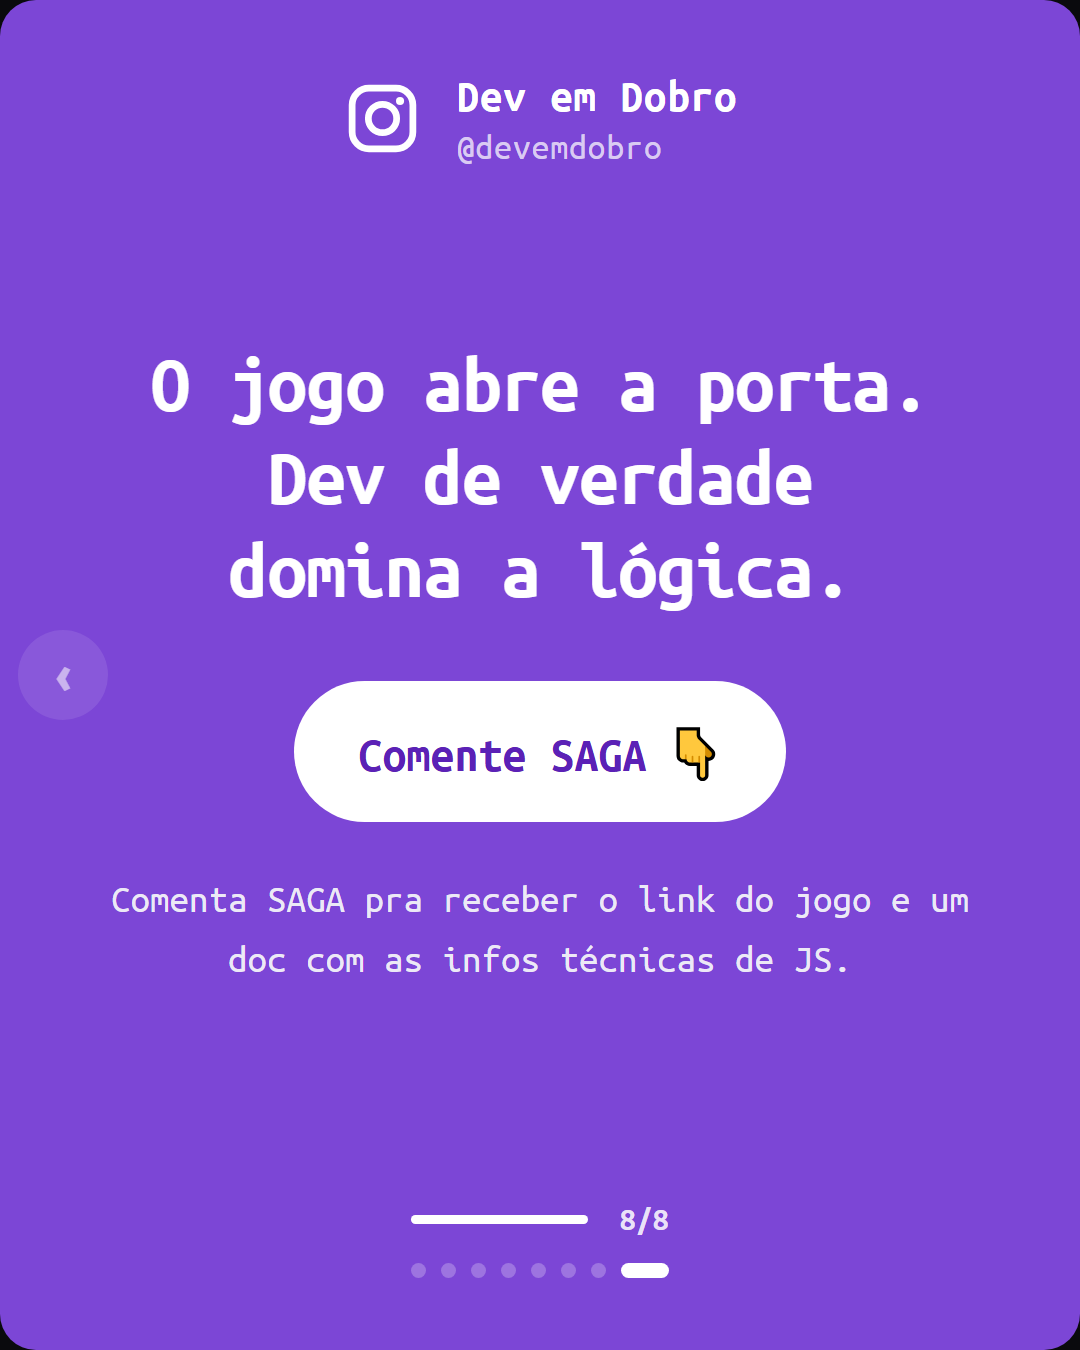
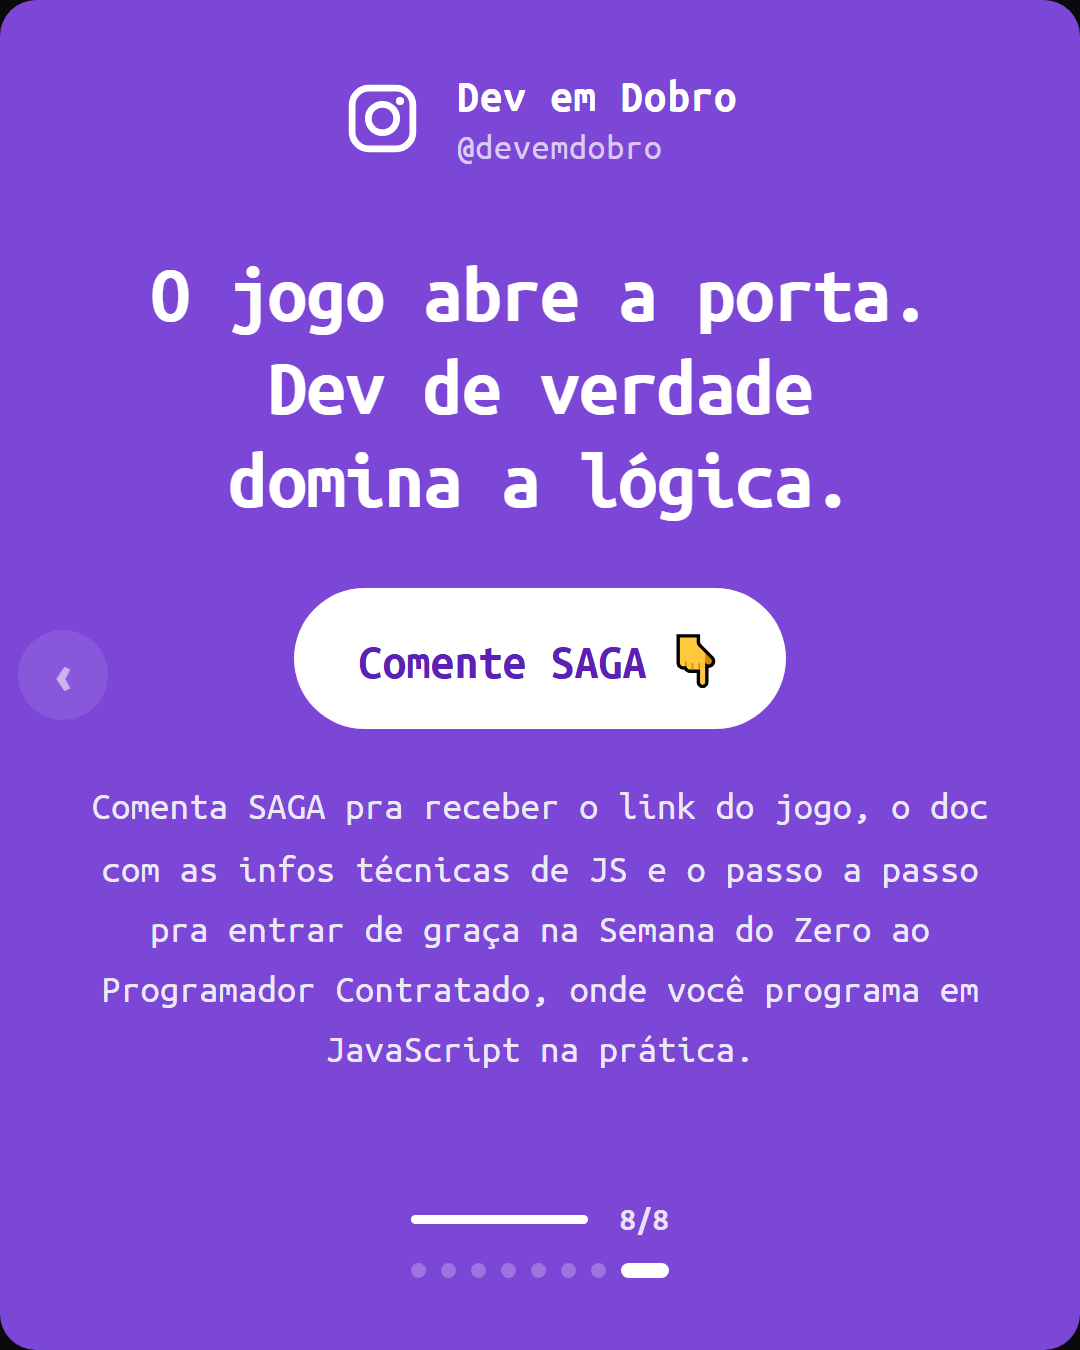
feat(dobro): elevator-saga com gancho, legenda e CTA novos + presentes linkados
Carrossel do Elevator Saga: gancho da capa igual ao titulo do post ("Esse jogo
ensina Logica de Programacao melhor que muito curso pago"), com titulo 30% menor
pra caber; legenda reescrita em AIDA e pensada pra busca (a keyword aparece por
extenso na primeira frase, que cabe no preview); e o CTA passa a entregar,
junto do jogo e do doc de JS, o passo a passo pra entrar de graca na Semana.
Um pedido so continua sendo "comenta SAGA": a Semana entra como o que a pessoa
recebe, nao como segunda acao.

linkPresente gravado nos carrosseis que ja tinham presente no Notion (4 skills,
12 coisas, 4 prompts, elevator-saga). Sem isso, o proximo carrossel:render
recria o card e o link some, porque o render apaga e reinsere por titulo.

O comando /gerar-carrossel ganhou o passo do GIF da landing do GTA 6 no fim de
todo presente, logo depois do link de inscricao, com o file-upload reaproveitavel
e o arquivo guardado no repo pra quando ele expirar.

diff --git a/apps/dobro/server/carrossel/carrosseis/elevator-saga.ts b/apps/dobro/server/carrossel/carrosseis/elevator-saga.ts
@@ -19,13 +19,15 @@ export const elevatorSaga: Carrossel = {
   slug: 'elevator-saga',
   titulo: 'Esse jogo ensina Lógica de Programação melhor que muito curso pago',
   gancho: 'Esse jogo ensina Lógica de Programação melhor que muito curso pago',
-  dataProgramada: '2026-08-03T12:00:00.000Z',
+  dataProgramada: '2026-08-06T12:00:00.000Z',
   refsLinks: 'https://play.elevatorsaga.com/',
+  linkPresente: 'https://app.notion.com/p/3b46dd01fb488167a823c182bee59920',
   slides: [
     {
       variant: 'photo',
       cover: true,
-      titulo: 'Esse jogo ensina\n**lógica de programação**\nmelhor que curso pago',
+      tituloMenor: true,
+      titulo: 'Esse jogo ensina\n**Lógica de Programação**\nmelhor que muito\ncurso pago',
     },
     {
       variant: 'light',
@@ -87,24 +89,33 @@ export const elevatorSaga: Carrossel = {
       handle: '@devemdobro',
       titulo: 'O jogo abre a porta.\nDev de verdade\ndomina a lógica.',
       botao: 'Comente SAGA 👇',
-      corpo: 'Comenta SAGA pra receber o link do jogo e um doc com as infos técnicas de JS.',
+      corpo:
+        'Comenta SAGA pra receber o link do jogo, o doc com as infos técnicas de JS e o passo a passo pra entrar de graça na Semana do Zero ao Programador Contratado, onde você programa em JavaScript na prática.',
     },
   ],
   legenda:
-    'Lógica de programação é a base de tudo, mas quase ninguém treina de um jeito que dá pra ver funcionando. ' +
-    'O Elevator Saga resolve isso.\n\n' +
-    'É um jogo gratuito, no navegador, onde você programa a lógica dos elevadores em JavaScript pra transportar ' +
-    'as pessoas com eficiência. Não é quiz de múltipla escolha: você escreve código de verdade e vê na hora se a ' +
-    'sua lógica funciona ou se trava com gente esperando.\n\n' +
-    'Cada fase é um desafio de otimização, então você treina o que mais importa no começo: condicionais, eventos ' +
-    'e algoritmo. A base que vale pra qualquer linguagem.\n\n' +
+    // AIDA + SEO do Insta: a 1ª frase tem ~57 caracteres de propósito (a linha de
+    // follow come ~56 do preview, então o que passa disso o "mais" corta), e a
+    // palavra que a pessoa busca ("lógica de programação") vem por extenso logo no
+    // começo e se repete ao longo do texto. Ver memória descricao-insta-linha-follow.
+    'Lógica de programação é o que trava quase todo iniciante.\n\n' +
+    'E dá pra treinar isso jogando, de graça, no navegador. O jogo chama Elevator Saga: você escreve ' +
+    'JavaScript de verdade pra controlar os elevadores de um prédio e levar as pessoas sem deixar ninguém ' +
+    'esperando.\n\n' +
+    'Não é quiz de múltipla escolha. É código rodando na tela, e você vê na hora se a sua lógica funciona ou ' +
+    'se trava com gente parada no corredor.\n\n' +
+    'Cada fase é um desafio de otimização, então você treina o que sustenta qualquer linguagem: condicionais, ' +
+    'eventos e algoritmo. É lógica de programação aplicada, não teoria solta no caderno.\n\n' +
     'Um aviso honesto: é pra quem já sabe o básico de JavaScript e quer treinar lógica. Se você está no zero ' +
     'absoluto, começa por outro lugar antes.\n\n' +
-    'Comenta SAGA aqui embaixo que eu te mando o link do jogo e um doc com as infos técnicas de JS. E quem pega ' +
-    'o doc já entra pro que vem por aí. 👇',
+    'Comenta SAGA aqui embaixo que eu te mando o link do jogo e um doc com as infos técnicas de JS. E se você ' +
+    'quer aprender JavaScript na prática, mando junto o passo a passo pra se inscrever de graça na Semana do ' +
+    'Zero ao Programador Contratado, onde a gente constrói um projeto de verdade do zero ao deploy. 👇',
   hashtags:
     'javascript logicadeprogramacao programação algoritmo elevatorsaga jogoprogramação devemdobro aprenderprogramar carreiratech desenvolvimentoweb',
-  ctaFinal: 'Comenta SAGA que eu te mando o link do jogo e um doc com as infos técnicas de JS, de graça.',
+  ctaFinal:
+    'Comenta SAGA que eu te mando o link do jogo, o doc com as infos técnicas de JS e o passo a passo pra se ' +
+    'inscrever de graça na Semana do Zero ao Programador Contratado, onde você aprende JavaScript na prática.',
   briefing:
     '🔮 PREVISÃO DA IA (registrada em 03/08/2026, ANTES de publicar)\n' +
     'Veredito: alta chance de performar. Score 25/25 no framework Fura a Bolha (a versão anterior tirava 18/25).\n' +

diff --git a/apps/dobro/server/carrossel/carrosseis/instalar-no-claude.ts b/apps/dobro/server/carrossel/carrosseis/instalar-no-claude.ts
@@ -40,6 +40,7 @@ export const instalarNoClaude: Carrossel = {
   titulo: '12 coisas para instalar no Claude: para usuários acima da média',
   gancho: '12 coisas pra instalar no Claude. É o que separa quem usa do que sabe usar.',
   refsLinks: 'https://www.instagram.com/p/Da7ZkTblprI/',
+  dataProgramada: '2026-08-07',
   slides: [
     {
       variant: 'photo',
@@ -144,6 +145,8 @@ export const instalarNoClaude: Carrossel = {
     'Comenta CLAUDE aqui embaixo que eu te mando a lista das 12 com o comando de instalação de cada uma. 👇',
   hashtags: 'claudecode claude inteligenciaartificial devweb programacao mcp aiagents vibecoding devemdobro carreiratech',
   ctaFinal: 'Comenta CLAUDE que eu te mando a lista das 12 com o comando de instalação de cada uma, pronta pra colar.',
+  /** Presente entregue no CTA: página do Notion com as 12 e os comandos (criada em 05/08/2026). */
+  linkPresente: 'https://app.notion.com/p/3b36dd01fb488192b2f1c13cd799b51c',
   briefing:
     'ORIGEM: referência do Telegram (05/08/2026), carrossel do @iampascio "12 things to install in Claude / for ' +
     'power-users", com 2.007 curtidas e 298 comentários (ratio alto de comentário, puxado pela palavra-gatilho).\n\n' +

diff --git a/apps/dobro/server/carrossel/carrosseis/vaga-com-claude.ts b/apps/dobro/server/carrossel/carrosseis/vaga-com-claude.ts
@@ -145,6 +145,8 @@ export const vagaComClaude: Carrossel = {
     'claudeai vagatech devweb n8n automacao carreiratech linkedin curriculo inteligenciaartificial devemdobro',
   ctaFinal:
     'Comenta GUIA que a gente faz sua inscrição gratuita na Semana do Zero ao Programador Contratado, onde a gente aprofunda o marketing pessoal pra você ser um dev acima da média no processo seletivo, e te manda os 4 prompts completos na DM.',
+  /** Presente entregue no CTA: página do Notion com os 4 prompts (criada em 05/08/2026). */
+  linkPresente: 'https://app.notion.com/p/3b26dd01fb48803cac01ce570f9d6b4d',
   briefing:
     'ORIGEM: referência do Telegram (05/08/2026), reel do @abhijayarora_ com 17.807 comentários e 6.575 curtidas.\n' +
     'Decisão do dono: copiar gancho, narrativa e CTA da referência, adaptando pro público BR.\n\n' +

diff --git a/apps/dobro/server/carrossel/carrosseis/4-skills-claude-code.ts b/apps/dobro/server/carrossel/carrosseis/4-skills-claude-code.ts
@@ -156,6 +156,12 @@ export const quatroSkillsClaudeCode: Carrossel = {
   hashtags:
     'claudecode claudeskills programacao devtools frontend gsap uiux inteligenciaartificial devemdobro carreiratech',
   ctaFinal: 'Comenta SKILLS que eu te mando o passo a passo de instalação das 4, com o que cada uma resolve.',
+  /**
+   * Presente do "comenta SKILLS": página do Notion criada em 05/08/2026, na raiz
+   * do workspace pra publicar sozinha sem expor o resto. LINK PRIVADO: trocar pelo
+   * `.notion.site` depois de Compartilhar > Publicar.
+   */
+  linkPresente: 'https://app.notion.com/p/3b36dd01fb4881be9817d704bac2bc3f',
   briefing:
     'FÓRMULA: ferramenta concreta com nome próprio, grátis, com comando copiável e slide salvável. É a categoria que ' +
     'mais puxa salvamento na conta.\n\n' +

diff --git a/.claude/commands/gerar-carrossel.md b/.claude/commands/gerar-carrossel.md
@@ -1,0 +1,70 @@
+---
+description: Gera rascunho de carrossel/reels a partir de uma ideia, de PRINTS de slides, ou de um link do Instagram, e coloca no cronograma como rascunho
+---
+
+# gerar-carrossel
+
+Transforma uma IDEIA, **PRINTS de slides** ou um LINK do Instagram num rascunho no cronograma.
+
+## Pedido do usuário
+$ARGUMENTS
+
+## Como decidir o caminho (nesta ordem)
+
+1. **IMAGENS anexadas (prints de slides)** — é o MELHOR caminho pra carrossel:
+   - Leia CADA imagem **palavra por palavra** (você tem visão). Registre o **gancho** (slide 1) e o
+     texto de cada slide, na ordem.
+   - Se o usuário pediu pra **copiar o gancho**, use o gancho transcrito **literalmente** (ajuste só o
+     mínimo pra caber na voz do @devemdobro). Senão, use como inspiração forte.
+   - Monte um TEMA rico juntando a transcrição dos slides + a instrução do usuário e rode, na raiz:
+     ```
+     pnpm --filter @app/dobro conteudo:gerar-tema "<transcricao dos slides + instrucao>" [carrossel|reels]
+     ```
+
+2. **LINK do Instagram** (`instagram.com/reel|reels|p|tv/...`):
+   ```
+   pnpm --filter @app/dobro conteudo:gerar-url "<url>" [carrossel|reels] "<instrucao>"
+   ```
+   ⚠ Pelo link entra só a **legenda**. O texto DENTRO dos slides do carrossel e a FALA do reels **não
+   são lidos** (o Instagram bloqueia a raspagem das imagens). Se for carrossel e o usuário quer o gancho
+   dos slides, **PEÇA os prints dos slides** — é o único jeito confiável.
+
+3. **IDEIA / tema livre** (sem imagem nem link):
+   ```
+   pnpm --filter @app/dobro conteudo:gerar-tema "<ideia>" [carrossel|reels]
+   ```
+
+## Ao terminar
+Confirme com o TÍTULO gerado (sai no output `[gerar-...] OK — ...`) e avise que está no board
+**/conteudo/painel → aba Cronograma** como **rascunho** (sem data; é só arrastar pro dia).
+
+## O presente (obrigatório quando o CTA promete um)
+Se o CTA promete material na DM ("comenta STACK que eu te mando..."), o carrossel **não está pronto**
+sem o presente:
+1. Crie a página no **Notion** (página privada no nível do workspace, sem parent), no formato dos
+   presentes anteriores: ícone emoji, subtítulo em itálico, `## <span color="blue">Categoria</span>`,
+   `### <span color="blue_bg">**Nome**</span>`, link, descrição, `💡 **Como usar:**`, e no fim o convite
+   da Semana + `*Dev em Dobro*`. Leia um presente existente antes de escrever, pra manter o padrão.
+2. Grave o link nos **dois** lugares: `linkPresente` em `server/carrossel/carrosseis/<slug>.ts` **e** o
+   campo **Link do presente** do card. O `carrossel:render` recria o card do zero, então o que estiver
+   só no banco some no próximo render.
+3. **UTM do convite da Semana**: nunca copie o link de inscrição de um presente antigo. Os encurtadores
+   `devemdobro.dev/xxxx` já carregam o `utm_content` de OUTRO post, e a inscrição é creditada errado.
+   Monte o link identificando este post:
+   ```
+   https://lp.devemdobro.com/evento?utm_source=notion&utm_medium=notion&utm_campaign=organico&utm_term=notion&utm_content=<nome.do.post>.<dia>.<mes>
+   ```
+   O `utm_content` usa palavras separadas por ponto + a data de publicação (ex.: `sites.cara.de.caro.6.8`).
+4. **GIF da landing do GTA 6 no fim**: logo DEPOIS do link de inscrição (antes do `---` e do `*Dev em Dobro*`),
+   todo presente leva o GIF da landing que a galera constrói na Semana. Reaproveite o upload que já existe:
+   ```
+   <image src="file-upload://3b46dd01-fb48-8120-a964-00b2558e145c"></image>
+   ```
+   Se esse upload expirar, refaça a partir do arquivo no repo (`server/carrossel/assets/semana/landing-gta6.gif`)
+   com `notion-create-file-upload` + POST multipart no `upload_url`. Antes de inserir num presente antigo,
+   confira se ele já não tem o GIF: o MCP não deleta bloco, então duplicata só sai na mão.
+
+## Regras (convenções do projeto)
+- NUNCA use travessão nos textos de conteúdo.
+- NUNCA invente nome de método/produto que não exista.
+- Se falhar por falta de `ANTHROPIC_API_KEY`, avise que a chave da IA não está no servidor.
